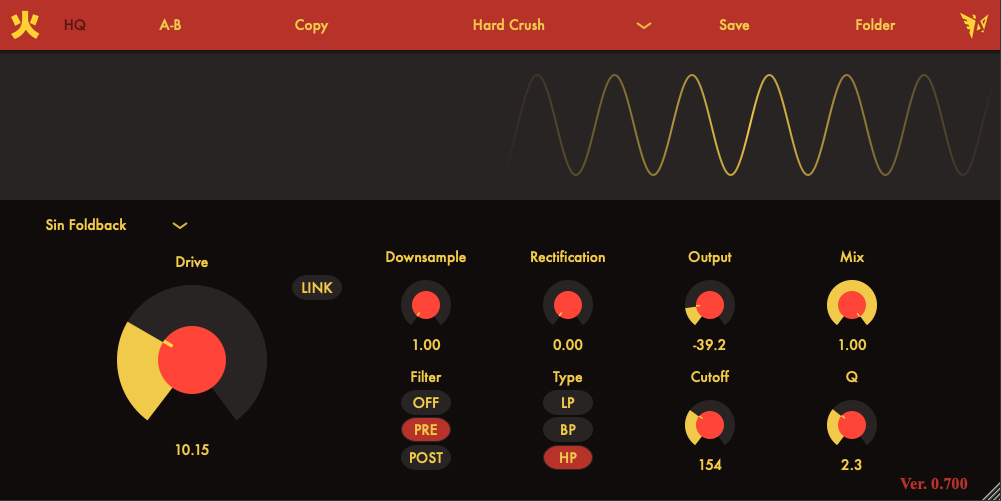
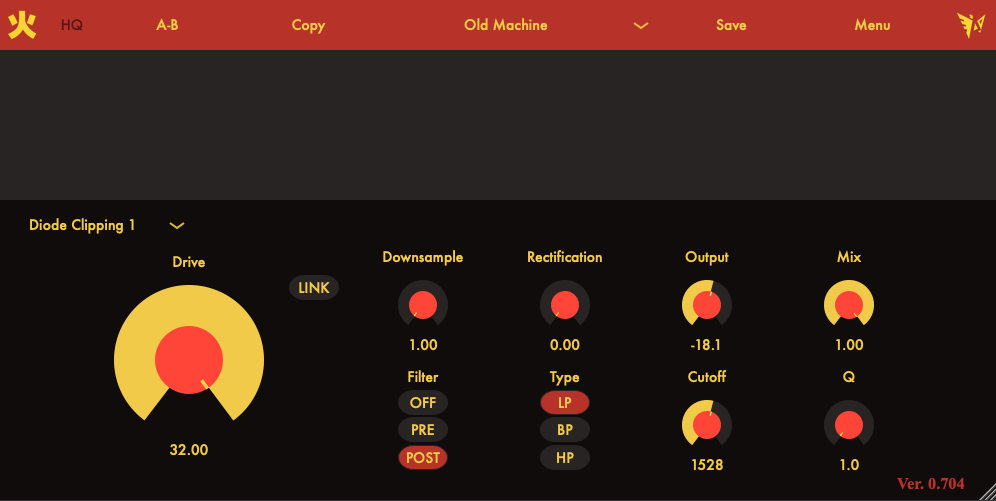
0.704
DONE:
added sub menu but can't save preset name in presetbox menu when opening next time

Former-commit-id: 279860098c1593ec56b810c05ef5ebb490b7ea67

diff --git a/Source/Preset.cpp b/Source/Preset.cpp
@@ -127,11 +127,7 @@ int writeXmlElementToFile(const XmlElement &xml, File &file, String presetName, 
     
 }
 
-String getNextAvailablePresetID(const XmlElement &presetXml)
-{
-    int newPresetIDNumber = presetXml.getNumChildElements() + 1; // 1 indexed to match ComboBox
-    return "preset" + static_cast<String>(newPresetIDNumber);    // format: preset##
-}
+
 
 //==============================================================================
 StatePresets::StatePresets(AudioProcessor &proc, const String &presetFileLocation)
@@ -148,17 +144,61 @@ StatePresets::~StatePresets()
 
 }
 
-void StatePresets::scanAllPresets()
+String StatePresets::getNextAvailablePresetID(const XmlElement &presetXml)
 {
-    RangedDirectoryIterator iterator(presetFile, true, "*.fire", 2);
+    int newPresetIDNumber = getNumPresets();
+    return "preset" + static_cast<String>(newPresetIDNumber);    // format: preset##
+}
+
+void StatePresets::recursiveFileSearch(XmlElement &parentXML, File dir)
+{
+    RangedDirectoryIterator iterator(dir, false, "*", 3); // findDirectories = 1, findFiles = 2, findFilesAndDirectories = 3, ignoreHiddenFiles = 4
     for(auto file : iterator)
     {
-        String newPresetID = getNextAvailablePresetID(presetXml); // presetID format: "preset##"
-        std::unique_ptr<XmlElement> currentState{new XmlElement{newPresetID}}; // must be pointer as parent takes ownership
-        parseFileToXmlElement(file.getFile(), *currentState);
-        presetXml.addChildElement(currentState.release()); // will be deleted by parent element
+        if (file.isDirectory())
+        {
+            String folderName;
+            folderName = file.getFile().getFileName();
+            std::unique_ptr<XmlElement> currentState{new XmlElement{folderName}}; // must be pointer as parent takes ownership
+            DBG(dir.getChildFile(file.getFile().getFileName()).getFullPathName());
+            recursiveFileSearch(*currentState, dir.getChildFile(file.getFile().getFileName()));
+            parentXML.addChildElement(currentState.release()); // will be deleted by parent element
+        }
+        else if (file.getFile().hasFileExtension(".fire"))
+        {
+            numPresets++;
+            String newPresetID = getNextAvailablePresetID(presetXml); // presetID format: "preset##"
+            std::unique_ptr<XmlElement> currentState{new XmlElement{newPresetID}}; // must be pointer as parent takes ownership
+            parseFileToXmlElement(file.getFile(), *currentState);
+            currentState->setTagName(newPresetID);
+            
+            // if file name differs from preset name in .fire
+            String newName = file.getFile().getFileNameWithoutExtension();
+            if (newName != currentState->getStringAttribute("presetName")) {
+                currentState->setAttribute("presetName", newName);
+            }
+            
+            //presetXml.addChildElement(currentState.release()); // will be deleted by parent element
+            parentXML.addChildElement(currentState.release()); // will be deleted by parent element
+        }
+        else
+        {
+            // not a fire preset, maybe popup alert window?
+            //jassertfalse;
+        }
+        
     }
+}
 
+void StatePresets::scanAllPresets()
+{
+    numPresets = 0;
+    presetXml.deleteAllChildElements();
+    //RangedDirectoryIterator iterator(presetFile, true, "*.fire", 2);
+    
+    recursiveFileSearch(presetXml, presetFile);
+    //presetXml.writeTo(File::getSpecialLocation(File::userApplicationDataDirectory).getChildFile("Audio/Presets/Wings/Fire/test.xml"));
+    
     //  presetFile
 //    DirectoryIterator iter(presetFile, true, "*.fire", 2);
 //    DBG(presetFile.getFileName());
@@ -208,7 +248,8 @@ int StatePresets::savePreset(File savePath)
     {
         String newPresetID = getNextAvailablePresetID(presetXml); // presetID format: "preset##"
         std::unique_ptr<XmlElement> currentState{new XmlElement{newPresetID}}; // must be pointer
-        currentState->setAttribute("presetName", presetName);
+        //std::unique_ptr<XmlElement> currentState{new XmlElement{"preset"}}; // must be pointer
+        currentState->setAttribute("presetName", newPresetID);
         saveStateToXml(pluginProcessor, *currentState);
         presetXml.addChildElement(currentState.release()); // will be deleted by parent element
         return getNumPresets();
@@ -235,14 +276,36 @@ int StatePresets::savePreset(File savePath)
     
 }
 
-void StatePresets::loadPreset(int presetID)
+void StatePresets::recursivePresetLoad(XmlElement parentXml, String presetID)
 {
-    if (1 <= presetID && presetID <= presetXml.getNumChildElements()) // 1 indexed to match ComboBox
+    
+    int index = 0;
+    forEachXmlChildElement(parentXml, child)
     {
-        XmlElement loadThisChild{*presetXml.getChildElement(presetID - 1)}; // (0 indexed method)
-        loadStateFromXml(loadThisChild, pluginProcessor);
+        DBG(child->getTagName());
+        DBG(presetID);
+        if (child->hasAttribute("presetName") && child->getTagName() == presetID)
+        {
+            XmlElement loadThisChild{*child}; // (0 indexed method)
+            loadStateFromXml(loadThisChild, pluginProcessor);
+        }
+        else
+        {
+            recursivePresetLoad(*child, presetID);
+        }
+        index++;
     }
-    currentPresetID = presetID; // allow 0 for 'no preset selected' (?)
+}
+
+void StatePresets::loadPreset(String presetID)
+{
+    recursivePresetLoad(presetXml, presetID);
+//    if (1 <= presetID && presetID <= getNumPresets()) // 1 indexed to match ComboBox
+//    {
+//        XmlElement loadThisChild{*presetXml.getChildElement(presetID - 1)}; // (0 indexed method)
+//        loadStateFromXml(loadThisChild, pluginProcessor);
+//    }
+    //currentPresetID = presetID; // allow 0 for 'no preset selected' (?)
 }
 
 
@@ -263,23 +326,43 @@ StringRef StatePresets::getPresetName()
     return presetName;
 }
 
-StringArray StatePresets::getPresetNames() const
+void StatePresets::recursivePresetNameAdd(XmlElement parentXml ,ComboBox &menu, int &index)
 {
-    StringArray names;
-
-    forEachXmlChildElement(presetXml, child) // should avoid macro?
+    forEachXmlChildElement(parentXml, child) // should avoid macro?
     {
-        String n = child->getStringAttribute("presetName");
-        if (n == "")
-            n = "(Unnamed preset)";
-        names.add(n);
+        if (child->hasAttribute("presetName"))
+        {
+            // is preset
+            index++;
+            String n = child->getStringAttribute("presetName");
+            if (n == "")
+                n = "(Unnamed preset)";
+            menu.addItem(n, index);
+        }
+        else
+        {
+            // is folder
+            if (index != 0) {
+                menu.addSeparator();
+            }
+            String n = child->getTagName();
+            menu.addSectionHeading(n);
+            
+            recursivePresetNameAdd(*child, menu, index);
+        }
     }
-    return names; // hopefully moves
+}
+
+void StatePresets::setPresetAndFolderNames(ComboBox &menu)
+{
+    int index = 0;
+    recursivePresetNameAdd(presetXml, menu, index);
 }
 
 int StatePresets::getNumPresets() const
 {
-    return presetXml.getNumChildElements();
+    //return presetXml.getNumChildElements();
+    return numPresets;
 }
 
 int StatePresets::getCurrentPresetId() const
@@ -302,11 +385,7 @@ void StatePresets::initPreset()
 }
 
 //==============================================================================
-void populateComboBox(ComboBox &comboBox, const StringArray &listItems)
-{
-    for (int i = 0; i < listItems.size(); ++i)
-        comboBox.addItem(listItems[i], i + 1); // 1-indexed ID for ComboBox
-}
+
 
 //==============================================================================
 StateComponent::StateComponent(StateAB &sab, StatePresets &sp)
@@ -409,16 +488,15 @@ void StateComponent::buttonClicked(Button *clickedButton)
 
 void StateComponent::comboBoxChanged(ComboBox *changedComboBox)
 {
-    const int selectedId{changedComboBox->getSelectedId()};
-    procStatePresets.loadPreset(selectedId);
+    
+    const String presetID{"preset" + (String)changedComboBox->getSelectedId()};
+    procStatePresets.loadPreset(presetID);
 }
 
 void StateComponent::refreshPresetBox()
 {
     presetBox.clear();
-    StringArray presetNames{procStatePresets.getPresetNames()};
-
-    populateComboBox(presetBox, presetNames);
+    procStatePresets.setPresetAndFolderNames(presetBox);
 }
 
 void StateComponent::ifPresetActiveShowInBox()
@@ -512,7 +590,7 @@ void StateComponent::savePresetAlertWindow()
 //            refreshPresetBox();
 //            presetBox.setSelectedId(procStatePresets.getNumPresets());
 //        }
-    //File userFile ("~/Library/Audio/Presets/Wings/Fire/User"); // need to get userfile path from sp?
+
     File userFile = procStatePresets.getFile().getChildFile("User");
     creatFolderIfNotExist(userFile);
     FileChooser filechooser("save preset", userFile, "*", true, false,nullptr);
@@ -520,16 +598,6 @@ void StateComponent::savePresetAlertWindow()
         int numPresets;
         // this is really shit code, but I don't have any other way to solve this shit problem!!!
         File inputName = filechooser.getResult();
-        //DBG(inputName.getFullPathName());
-//        bool hasExtension = false;
-//        if (inputName.hasFileExtension(".fire")) // for example, this input is "a.fire"
-//        {
-//            procStatePresets.setPresetName(presetName);
-//            hasExtension = true;    // if hasExtension is true, it will not pop-up a self-defined warning window
-//        }
-//        presetName = inputName.getFileNameWithoutExtension();
-//        procStatePresets.setPresetName(presetName);
-        //numPresets = procStatePresets.savePreset(presetName, hasExtension);
         numPresets = procStatePresets.savePreset(inputName);
         if (numPresets > 0)
         {
@@ -541,14 +609,18 @@ void StateComponent::savePresetAlertWindow()
 void StateComponent::openPresetFolder()
 {
     // open preset folder
-    
-    //File userFile ("~/Library/Audio/Presets/Wings/Fire");
     File userFile = procStatePresets.getFile();
     creatFolderIfNotExist(userFile);
     if (!userFile.existsAsFile())
     {
         File(userFile).startAsProcess();
     }
+}
+
+void StateComponent::rescanPresetFolder()
+{
+    procStatePresets.scanAllPresets();
+    refreshPresetBox();
 }
 
 void StateComponent::creatFolderIfNotExist(File userFile)
@@ -570,7 +642,7 @@ void StateComponent::popPresetMenu()
     presetMenu.clear();
     presetMenu.addItem(1, "Init", true);
     presetMenu.addItem(2, "Open Preset Folder", true);
-
+    presetMenu.addItem(3, "Rescan Preset Folder", true);
     
     int result = presetMenu.show();
     if (result == 1)
@@ -581,6 +653,10 @@ void StateComponent::popPresetMenu()
     if (result == 2)
     {
         openPresetFolder();
+    }
+    if (result == 3)
+    {
+        rescanPresetFolder();
     }
 }
 

diff --git a/Source/Preset.h b/Source/Preset.h
@@ -46,7 +46,6 @@ private:
 //int createFileIfNonExistant(const File &file);
 void parseFileToXmlElement(const File &file, XmlElement &xml);
 int writeXmlElementToFile(const XmlElement &xml, File &file, String presetName, bool hasExtension);
-String getNextAvailablePresetID(const XmlElement &presetXml);
 
 //==============================================================================
 /** Create StatePresets object with XML file saved relative to user
@@ -59,19 +58,23 @@ class StatePresets
 public:
     StatePresets(AudioProcessor &proc, const String &presetFileLocation);
     ~StatePresets();
-
+    
     int savePreset(File savePath);
-    void loadPreset(int presetID);
+    void loadPreset(String selectedName);
     void deletePreset();
 
-    StringArray getPresetNames() const;
+    void setPresetAndFolderNames(ComboBox &menu);
     int getNumPresets() const;
+    String getNextAvailablePresetID(const XmlElement &presetXml);
     int getCurrentPresetId() const;
     void setPresetName(String name);
     StringRef getPresetName();
     void scanAllPresets();
     File getFile();
     void initPreset();
+    void recursiveFileSearch(XmlElement &parentXML, File dir);
+    void recursivePresetLoad(XmlElement parentXml, String presetID);
+    void recursivePresetNameAdd(XmlElement parentXml ,ComboBox &menu, int &index);
     
 private:
     AudioProcessor &pluginProcessor;
@@ -80,7 +83,7 @@ private:
     File presetFile;                 // on-disk representation
     String presetName{""};
     int currentPresetID{0};
-    
+    int numPresets = 0;
     
     JUCE_DECLARE_NON_COPYABLE_WITH_LEAK_DETECTOR(StatePresets);
 };
@@ -126,6 +129,7 @@ private:
     void deletePresetAndRefresh();
     void savePresetAlertWindow();
     void openPresetFolder();
+    void rescanPresetFolder();
     void creatFolderIfNotExist(File userFile);
     void popPresetMenu();
     

diff --git a/Source/PluginProcessor.cpp b/Source/PluginProcessor.cpp
@@ -549,7 +549,10 @@ void FireAudioProcessor::updateFilter()
 AudioProcessorValueTreeState::ParameterLayout FireAudioProcessor::createParameters()
 {
     std::vector<std::unique_ptr<RangedAudioParameter>> parameters;
-                 
+       
+    parameters.push_back(std::make_unique<AudioParameterInt>("preset", "Preset", 0, 1000, 0));
+    //parameters.push_back(std::make_unique<AudioParameterBool>("sideAB", "SideAB", false));
+    
     parameters.push_back(std::make_unique<AudioParameterInt>("mode", "Mode", 0, 8, 1));
     parameters.push_back(std::make_unique<AudioParameterFloat>("inputGain", "InputGain", NormalisableRange<float>(-48.0f, 6.0f, 0.1f), 0.0f));
     parameters.push_back(std::make_unique<AudioParameterFloat>("drive", "Drive", NormalisableRange<float>(1.0f, 32.0f, 0.01f), 1.0f));

diff --git a/Source/PluginEditor.cpp b/Source/PluginEditor.cpp
@@ -10,7 +10,7 @@
 
 #include "PluginProcessor.h"
 #include "PluginEditor.h"
-#define VERSION "0.703"
+#define VERSION "0.704"
 //==============================================================================
 FireAudioProcessorEditor::FireAudioProcessorEditor(FireAudioProcessor &p)
     : AudioProcessorEditor(&p)

diff --git a/TODO.md b/TODO.md
@@ -3,4 +3,6 @@ TODO
 2. oversampling may sound different when using filter.
 3. smooth filter?
 4. adjust the position of ff meters
-5. add sub menu for different folders
+5. add left and right preset selection button
+6. save preset mode and A/B mode into processor.cpp
+(maybe need to delete preset.cpp and only use preset.h)
